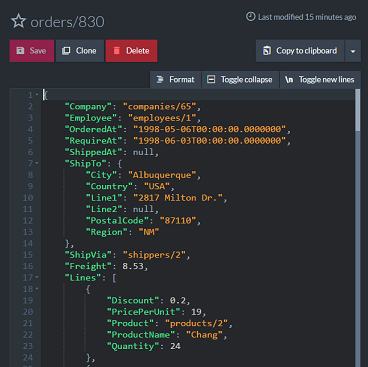
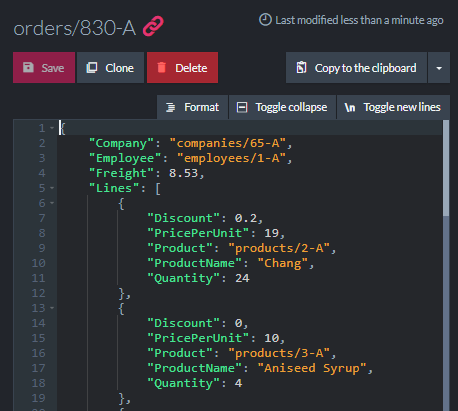
RDoc-1044 Update all document reference in the book

diff --git a/Ch02/Ch02.md b/Ch02/Ch02.md
@@ -154,7 +154,7 @@ to changes, indexing, querying, ETL, etc.).
 
 #### Our first real document
 
-Click on the `Orders` collection and then on the first document in the listing, which should be `orders/830`. The 
+Click on the `Orders` collection and then on the first document in the listing, which should be `orders/830-A`. The 
 result is shown in Figure 2.4. For the first time, we're looking at a real JSON document inside of RavenDB.
 
 ![An orders document](./Ch02/img04.png)
@@ -222,7 +222,7 @@ this.Description = [{"Lang": "en-us", "Text": this.Description }];
 ```
 
 Click the `Test` button, and you can see the results of running this operation: a category document. You can also select which
-specific document this test will be tested on. The before-and-after results of running this script on `categories/4` are 
+specific document this test will be tested on. The before-and-after results of running this script on `categories/4-A` are 
 shown in Figure 2.6.
 
 ![Categories localization with JavaScript patching](./Ch02/img07.png)
@@ -1358,8 +1358,8 @@ that we can fit less entries in each page, and need to traverse down the tree, r
 The same is true for saving unsorted document IDs, which can cause page splits and increase the depth of the tree. In nearly all cases,
 that doesn't really matter.] 
 
-The `hilo` algorithm generates document IDs that are lexically sortable, up to a degree (`people/2` is sorted after 
-`people/100`). But with the exception of when we add a digit to the number^[Rolling from `99` to `100` or from `999` to `1000`.], values 
+The `hilo` algorithm generates document IDs that are lexically sortable, up to a degree (`people/2-A` is sorted after 
+`people/100-A`). But with the exception of when we add a digit to the number^[Rolling from `99` to `100` or from `999` to `1000`.], values 
 are nicely sorted. This means that for the most part we get nice trees and very efficient searches. It also generates the 
 most human-readable values.
 
@@ -1416,7 +1416,7 @@ code in Listing 2.19.
 ```{caption="Modifying the metadata of a document" .cs}
 using (var session = store.OpenSession())
 {
-	var task = session.Load<ToDoTask>("ToDoTasks/1");
+	var task = session.Load<ToDoTask>("ToDoTasks/1-A");
 	var metadata = a.Advanced.GetMetadataFor(task);
 	metadata["Last-Modified-By"] = person.Name;
 	session.SaveChanges();
